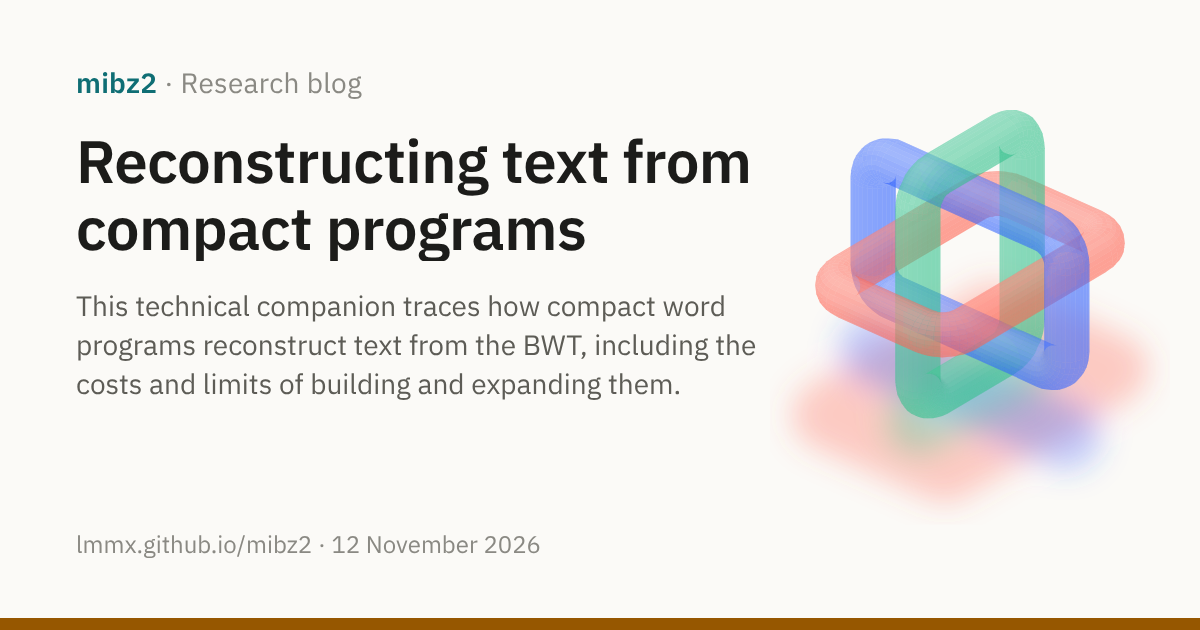
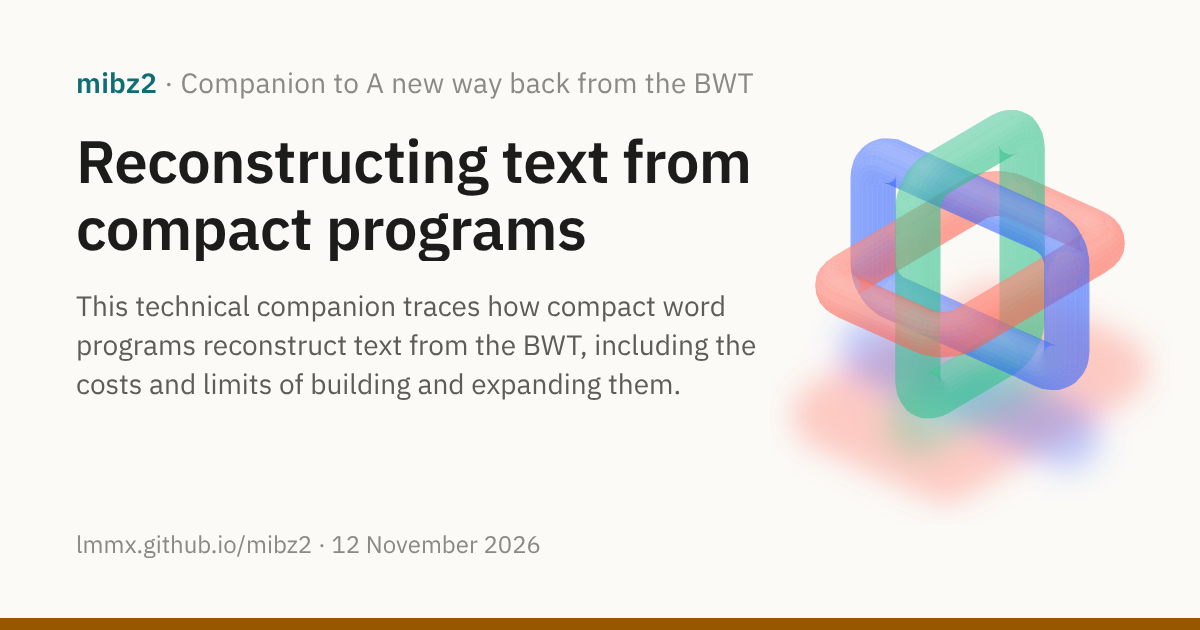
Companion posts: a companion's social card names its main post
Its kicker reads "mibz2 · Companion to <main title>" in place of "· Research blog", taken from
the index's data-companion-of, so the pairing is recorded once. Only the two companions' cards
are redrawn (queueing notes, Rauzy technical companion); the rest are unchanged.

Changed region(s): [[0.1542, 0.1206, 0.6167, 0.1508]]

diff --git a/docs/scripts/social_cards.py b/docs/scripts/social_cards.py
@@ -206,6 +206,10 @@ def cards(root=Path(".")):
             section="", title=config["site_description"], description=DEFAULT_DESCRIPTION, foot=host
         )
     }
+    # A technical companion's kicker names its main post: the index chains the pair, the
+    # companion's card naming its main post in data-companion-of (check_site.py check_companions).
+    index = (root / SITE / "blog" / "index.md").read_text()
+    companion_of = dict(re.findall(r'<a class="post-card" href="([^"]+)" data-companion-of="([^"]+)">', index))
     for post in sorted((root / SITE / "blog").glob("*.md")):
         meta, title = front_matter(post)
         image = meta.get("image")
@@ -215,7 +219,11 @@ def cards(root=Path(".")):
             sys.exit(f"{post}: the card must be under assets/social/, not {image}")
         day = date.fromisoformat(post.name[:10])
         out[image] = dict(
-            section=" · Research blog",
+            section=(
+                f" · Companion to {front_matter(post.parent / companion_of[post.name])[1]}"
+                if post.name in companion_of
+                else " · Research blog"
+            ),
             title=title,
             description=meta["description"],
             foot=f"{host} · {day.day} {day:%B %Y}",
